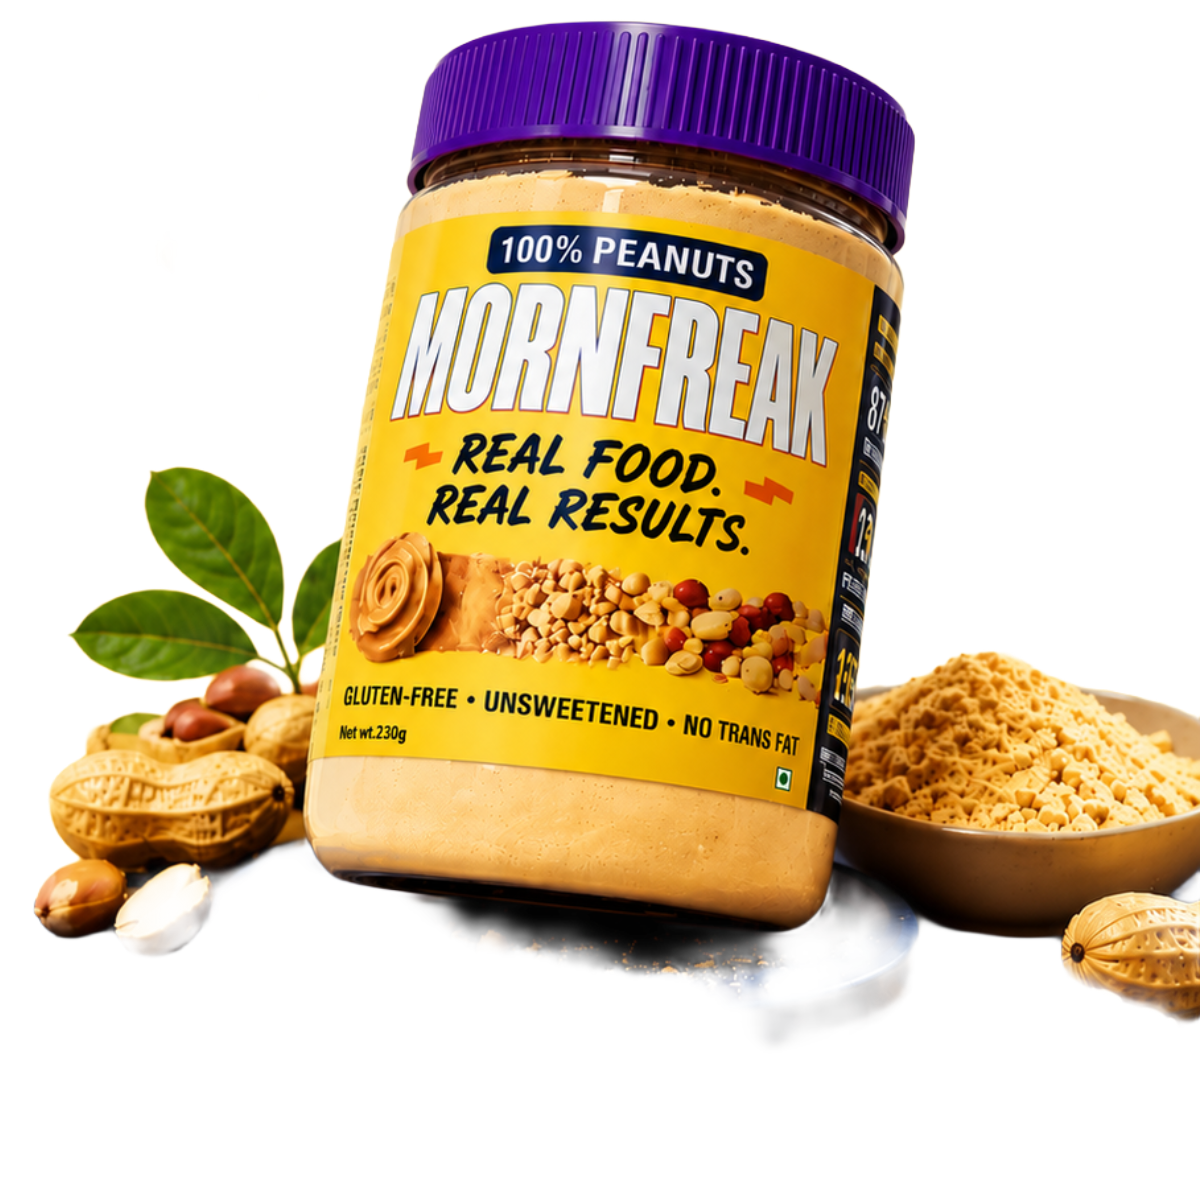
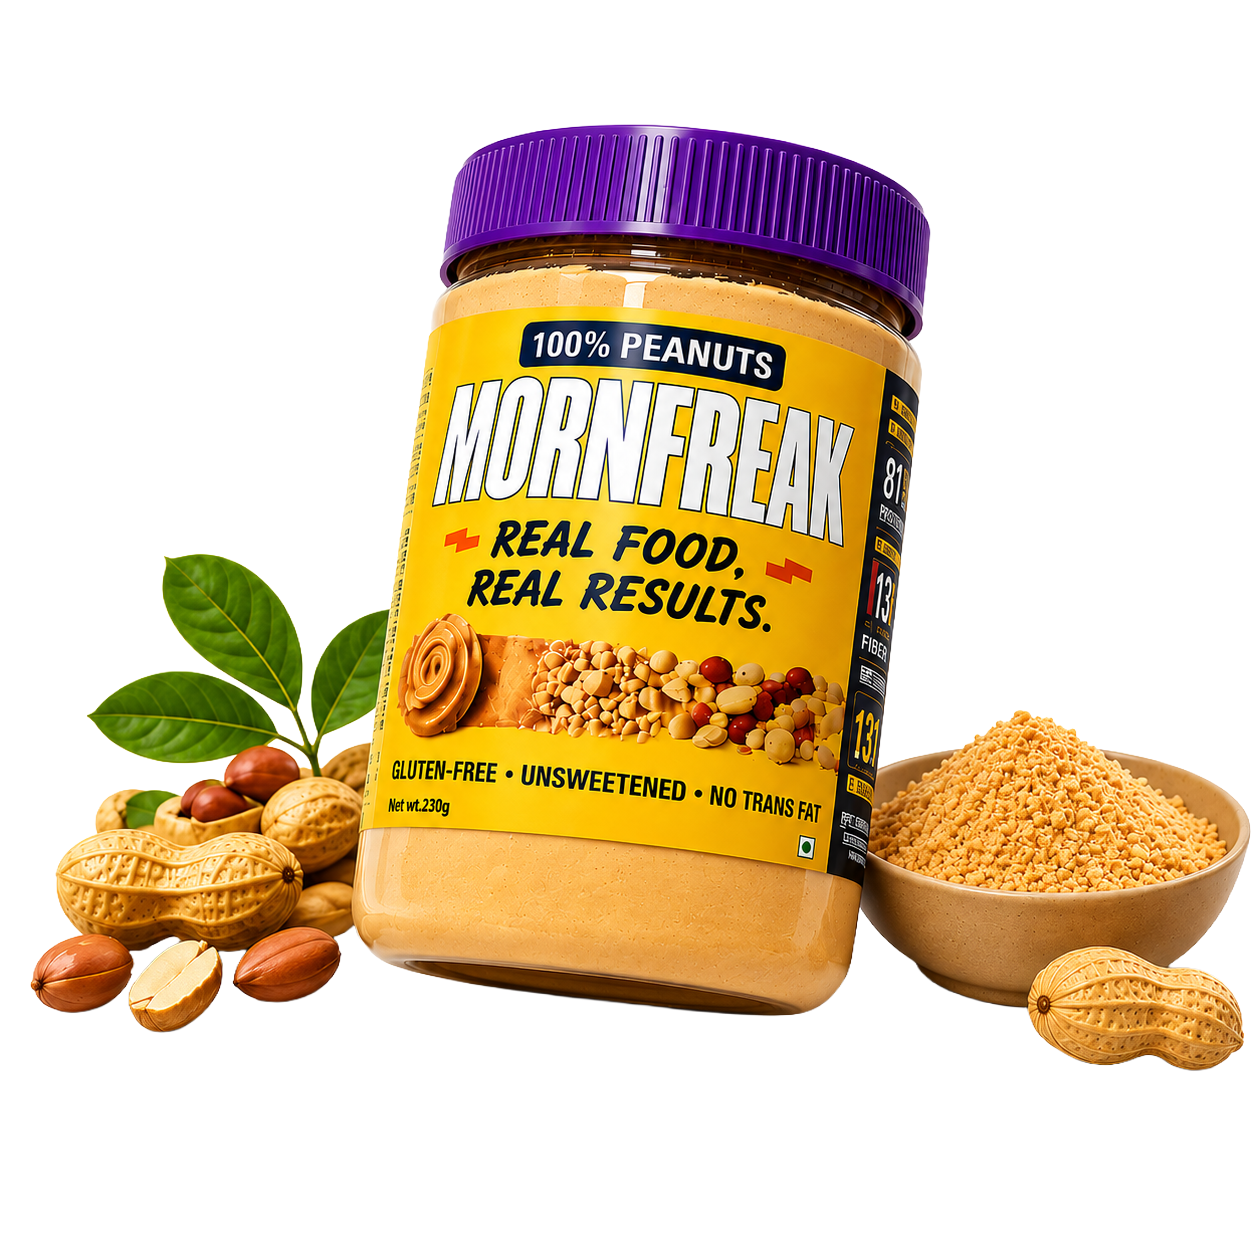
peanut powder hero section fix

diff --git a/src/features/home/home-hero.tsx b/src/features/home/home-hero.tsx
@@ -275,11 +275,39 @@ function HeroSlideOats({ active }: { active: boolean }) {
   );
 }
 
+const PEANUT_STATS = [
+  { value: "87%", label: "LESS CALORIES*" },
+  { value: "HIGH", label: "PROTEIN" },
+  { value: "1/3", label: "LESS FAT*" },
+] as const;
+
+function PeanutStatBadge({
+  value,
+  label,
+}: {
+  value: string;
+  label: string;
+}) {
+  return (
+    <div className="flex size-20 shrink-0 flex-col items-center justify-center rounded-full border-2 border-[#f5c518] bg-[#001d4a] px-2 text-center shadow-md lg:size-24">
+      <span className="font-display text-xl font-bold leading-none tracking-tight text-[#f5c518] lg:text-2xl">
+        {value}
+      </span>
+      <span className="mt-0.5 max-w-full font-sans text-[0.58rem] font-bold uppercase leading-tight tracking-wide text-white lg:text-[0.65rem]">
+        {label}
+      </span>
+    </div>
+  );
+}
+
+// Previous flattened slide assets (not rendered):
+// mobile: /images/hero/img_3_mobile.png
+// desktop: /images/hero/img_3_desktop.avif
 function HeroSlidePeanutButter({ active }: { active: boolean }) {
   return (
     <div
       className={cn(
-        "absolute inset-0 transition-opacity duration-700 ease-out",
+        "absolute inset-0 bg-[linear-gradient(135deg,#fff8dc_0%,#ffe9a8_55%,#ffd978_100%)] transition-opacity duration-700 ease-out",
         active ? "opacity-100" : "pointer-events-none opacity-0",
       )}
       aria-hidden={!active}
@@ -288,43 +316,59 @@ function HeroSlidePeanutButter({ active }: { active: boolean }) {
       aria-roledescription="slide"
       aria-label="Good morning. Great choice."
     >
-      <HeroPicture
-        mobileSrc="/images/hero/img_3_mobile.png"
-        desktopSrc="/images/hero/img_3_desktop.avif"
-        alt="Mornfreak product jar with high-protein callouts"
-        priority={active}
-        sizes="100vw"
-      />
-      <div
-        className="absolute inset-0 max-lg:bg-[linear-gradient(180deg,rgba(255,248,220,.9)_0%,rgba(255,248,220,.65)_45%,rgba(255,248,220,.28)_58%,transparent_74%)] lg:bg-[linear-gradient(90deg,rgba(255,248,220,.92)_0%,rgba(255,248,220,.7)_34%,transparent_65%)]"
-        aria-hidden
-      />
-
-      <div className="relative z-10 mx-auto flex h-full w-full max-w-[90rem] items-center px-4 py-16 sm:px-6 lg:px-10 lg:py-20">
-        <div className="max-w-xl pb-14 lg:max-w-[26rem] xl:max-w-xl">
-          <h1 className="font-display text-[clamp(2.75rem,7vw,5.25rem)] font-bold uppercase leading-[0.9] tracking-tight text-[#001d4a]">
+      <div className="relative z-10 mx-auto flex h-full w-full max-w-[90rem] flex-col gap-2 overflow-hidden px-4 pb-14 pt-10 sm:gap-3 sm:px-6 sm:pb-16 sm:pt-12 lg:flex-row lg:items-center lg:gap-10 lg:px-10 lg:py-20">
+        <div className="w-full shrink-0 lg:w-[42%] lg:max-w-[26rem] xl:max-w-xl">
+          <h1 className="font-display text-[clamp(2rem,8vw,5.25rem)] font-bold uppercase leading-[0.9] tracking-tight text-[#001d4a]">
             Good morning.
           </h1>
-          <p className="mt-1 font-script text-[clamp(2.25rem,5vw,3.75rem)] leading-none text-[#f39c12]">
+          <p className="mt-0.5 font-script text-[clamp(1.65rem,5.5vw,3.75rem)] leading-none text-[#f39c12]">
             Great Choice.
           </p>
-          <p className="mt-5 max-w-md font-sans text-base leading-relaxed text-[#001d4a] sm:text-lg">
+          <p className="mt-2 max-w-md font-sans text-sm leading-relaxed text-[#001d4a] sm:mt-4 sm:text-base lg:mt-5 lg:text-lg">
             Real oats. Real nutrition.
             <br />
             A smarter choice for a stronger, healthier you.
           </p>
 
-          <div className="mt-8 flex flex-wrap items-center gap-4">
+          <div className="mt-4 flex flex-wrap items-center gap-3 sm:mt-6 sm:gap-4 lg:mt-8">
             <Link
               href="/products"
-              className="inline-flex h-12 items-center justify-center gap-2 rounded-full bg-[#001d4a] px-7 font-sans text-sm font-bold uppercase tracking-[0.12em] text-white transition-transform hover:-translate-y-0.5"
+              className="inline-flex h-10 items-center justify-center gap-2 rounded-full bg-[#001d4a] px-5 font-sans text-xs font-bold uppercase tracking-[0.12em] text-white transition-transform hover:-translate-y-0.5 sm:h-12 sm:px-7 sm:text-sm"
             >
               Shop now <ArrowRight aria-hidden size={17} />
             </Link>
-            <p className="flex items-center gap-2 font-sans text-sm font-medium text-white lg:text-[#001d4a]">
-              <ShieldCheck aria-hidden size={18} className="text-white lg:text-[#001d4a]" />
+            <p className="flex items-center gap-2 font-sans text-xs font-medium text-[#001d4a] sm:text-sm">
+              <ShieldCheck aria-hidden size={16} className="shrink-0 text-[#001d4a] sm:size-[18px]" />
               Clean Ingredients. Nothing to Hide.
             </p>
+          </div>
+
+          <div className="mt-4 flex justify-center gap-3 sm:mt-5 sm:gap-4 lg:hidden" aria-label="Product highlights">
+            {PEANUT_STATS.map((stat) => (
+              <PeanutStatBadge key={stat.label} value={stat.value} label={stat.label} />
+            ))}
+          </div>
+        </div>
+
+        <div className="relative min-h-0 w-full flex-1 lg:h-full">
+          <div className="relative h-full w-full lg:min-h-[18rem]">
+            <Image
+              src="/images/raising-the-bar/peanut_butter_powder.png"
+              alt="Mornfreak peanut butter powder jar with peanuts, leaves, and powder bowl"
+              fill
+              priority={active}
+              sizes="(max-width: 1024px) 100vw, 50vw"
+              className="object-contain object-bottom lg:object-center"
+            />
+
+            <div
+              className="pointer-events-none absolute inset-y-[10%] right-2 z-10 hidden flex-col justify-between lg:flex xl:right-3"
+              aria-hidden
+            >
+              {PEANUT_STATS.map((stat) => (
+                <PeanutStatBadge key={stat.label} value={stat.value} label={stat.label} />
+              ))}
+            </div>
           </div>
         </div>
       </div>
